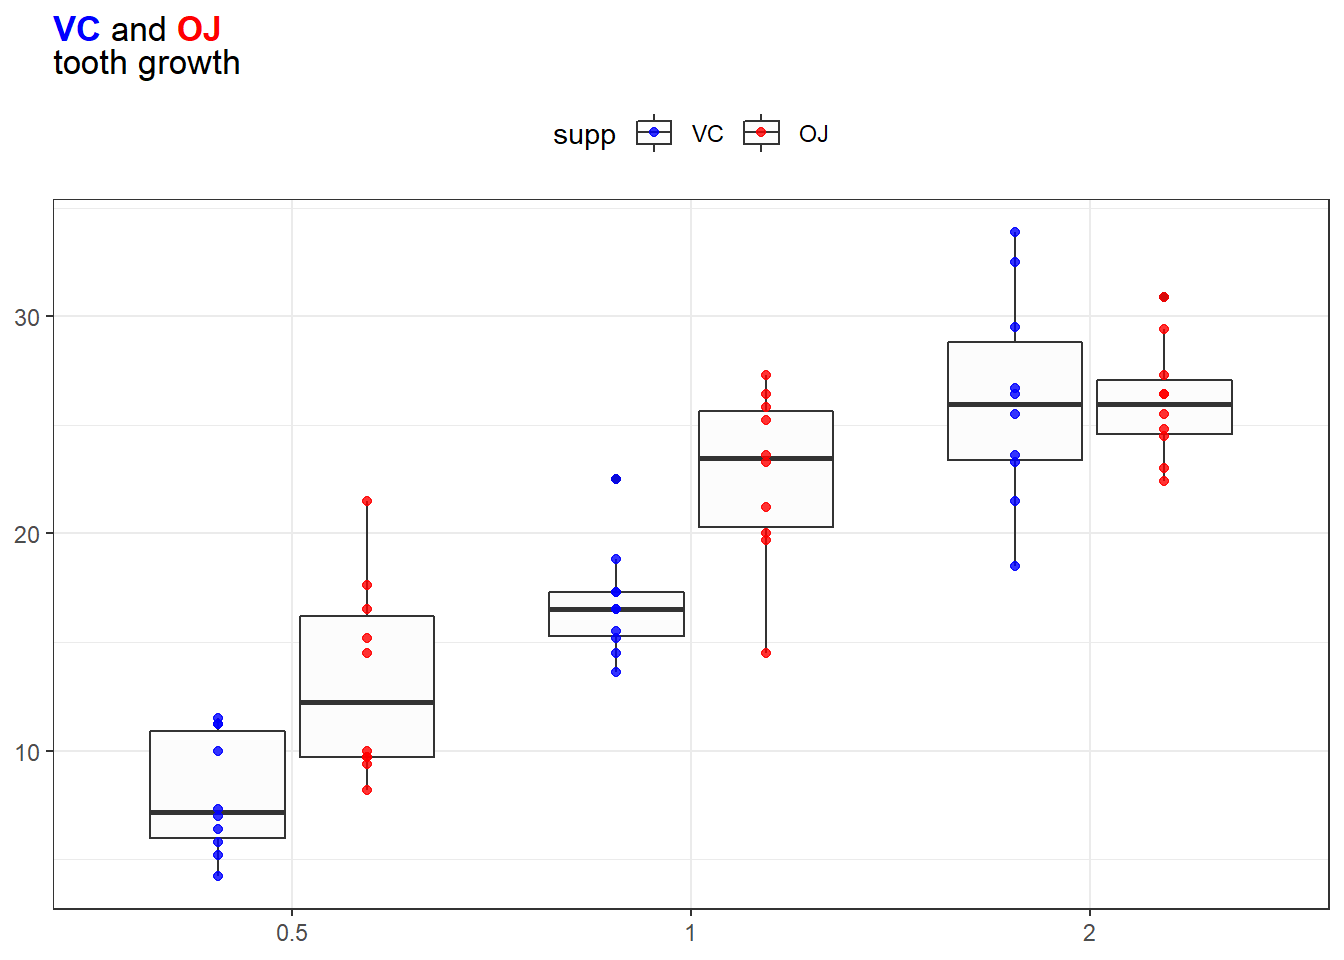
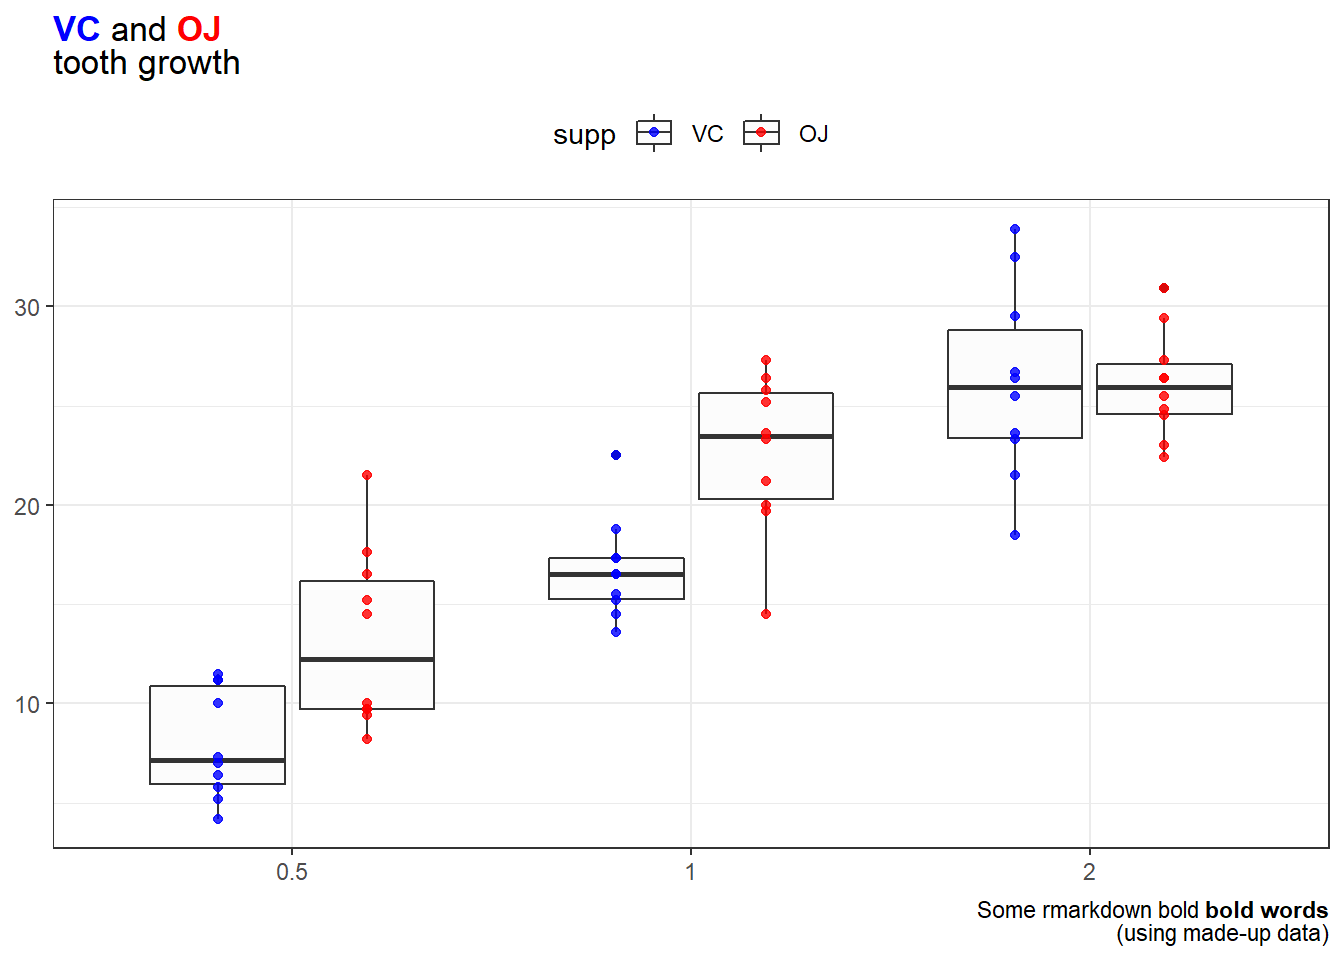
update bold fonts with rmarkdown

diff --git a/content/post/2022-10-08-examples-ggplot2/index.html b/content/post/2022-10-08-examples-ggplot2/index.html
@@ -49,11 +49,27 @@ ggplot(ToothGrowth, aes(x = dose, y = len)) +
     y = NULL,
     title = &quot;&lt;span style = &#39;color: blue;&#39;&gt;**VC**&lt;/span&gt; and 
                 &lt;span style = &#39;color: red;&#39;&gt;**OJ**&lt;/span&gt; &lt;br&gt; 
-                tooth growth&quot;
+                tooth growth&quot;,
+    caption = &quot;Some rmarkdown bold **bold words**&lt;br&gt;(using made-up data)&quot;
   ) +
   theme(
     plot.title = element_markdown(),
-    legend.position = &quot;top&quot;
+    legend.position = &quot;top&quot;,
+    plot.caption = element_markdown()
   )</code></pre>
 <p><img src="{{< blogdown/postref >}}index_files/figure-html/unnamed-chunk-2-1.png" width="672" /></p>
+</div>
+<div id="html" class="section level2">
+<h2>html</h2>
+<span class="emphasized" style="color: red;">emphasized word with red color</span>
+<br>
+<span class="bold" style="color: red;">word</span>
+<br>
+<p>
+The meeting will begin at 5:00 PM on <s>Saturday</s> now on Sunday.
+</p>
+<br>
+<p>
+This is some normal paragraph text, <strong>and this is some important text.</strong>
+</p>
 </div>
